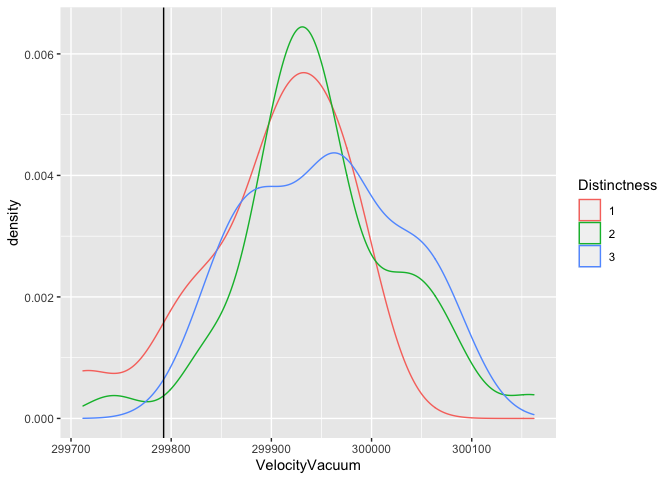
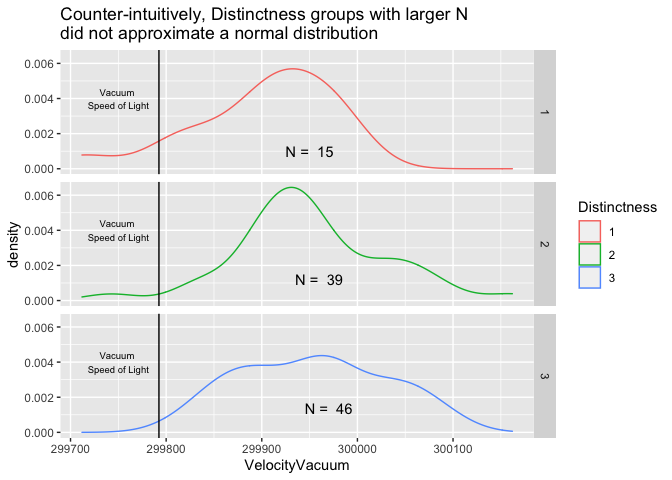
Commit for plot1

diff --git a/challenges/c02-michelson-assignment.md b/challenges/c02-michelson-assignment.md
@@ -7,6 +7,10 @@ ingridmathilde
       - [Individual](#individual)
       - [Team](#team)
       - [Due Date](#due-date)
+  - [Question 1](#question-1)
+  - [Question 2](#question-2)
+  - [Question 3](#question-3)
+  - [Question 4](#question-4)
       - [Bibliography](#bibliography)
 
 *Purpose*: When studying physical problems, there is an important
@@ -119,6 +123,8 @@ df_michelson %>% glimpse
   - `Temp`: Ambient temperature (Fahrenheit)
   - `Velocity`: Measured speed of light (km / s)
 
+# Question 1
+
 **q1** Re-create the following table (from Michelson (1880), pg. 139)
 using `df_michelson` and `dplyr`. Note that your values *will not* match
 those of Michelson *exactly*; why might this be?
@@ -170,6 +176,8 @@ for `VelocityVacuum` (from Michelson (1880), pg. 141). While this isn’t
 fully rigorous (\(+92\) km/s is based on the mean temperature), we’ll
 simply apply this correction to all the observations in the dataset.
 
+# Question 2
+
 **q2** Create a new variable `VelocityVacuum` with the \(+92\) km/s
 adjustment to `Velocity`. Assign this new dataframe to `df_q2`.
 
@@ -217,6 +225,8 @@ uncertainty. We will learn some means of quantifying uncertainty in this
 class, but for many real problems uncertainty includes some amount of
 human judgment.\[2\]
 
+# Question 3
+
 **q3** Compare Michelson’s speed of light estimate against the modern
 speed of light value. Is Michelson’s estimate of the error (his
 uncertainty) greater or less than the true error?
@@ -241,6 +251,8 @@ abs(error)/LIGHTSPEED_PM
 **Michelson’s error is 2.9714118 times his uncertainty. As such his
 nominal estimate and error did not capture the true speed of light.**
 
+# Question 4
+
 **q4** You have access to a few other variables. Construct a few
 visualizations of `VelocityVacuum` against these other factors. Are
 there other patterns in the data that might help explain the difference
@@ -249,12 +261,49 @@ between Michelson’s estimate and `LIGHTSPEED_VACUUM`?
 ``` r
 ## TODO: Compare Michelson's estimate and error against the true value
 ## Your code here!
+
+df_error <- df_q2 %>% 
+  arrange(desc(Distinctness)) %>% 
+  group_by(Distinctness) %>% 
+  summarise(
+    count = n(),
+    avg = mean(VelocityVacuum), 
+    max = max(VelocityVacuum), 
+    min = min(VelocityVacuum)
+    )
+```
+
+    ## `summarise()` ungrouping output (override with `.groups` argument)
+
+``` r
+dat_text <- data.frame(
+  label = paste("N = ",as.character(pull(df_error,2))),
+  Distinctness   = pull(df_error,1),
+  x     = c(299950, 299960, 299970),
+  y     = c(0.001, 0.0012, 0.0014)
+)
+
+
 plot1 <- df_q2 %>% 
   ggplot() +
-  # geom_histogram(aes(Velocity)) +
-  geom_density(aes(VelocityVacuum, color = Distinctness, group = Distinctness))
+  geom_density(
+    aes(VelocityVacuum, 
+        color = Distinctness, 
+        group = Distinctness)
+    ) +
+  facet_grid(Distinctness~.) +
+  annotate("text", 
+           x = 299750, 
+           y = 0.004, 
+           label = c("Vacuum \nSpeed of Light"), 
+           size = 2.5) +
+  geom_vline(xintercept = LIGHTSPEED_VACUUM) +
+  geom_text(
+    data= dat_text,
+    mapping = aes(x = x, y = y, label = label) 
+  )
 
-plot1 + geom_vline(xintercept = LIGHTSPEED_VACUUM)
+plot1 + labs(title = "Counter-intuitively, Distinctness groups with larger N \ndid not approximate a normal distribution")
 ```
 
 ![](c02-michelson-assignment_files/figure-gfm/q4-task-1.png)<!-- -->
@@ -262,11 +311,19 @@ plot1 + geom_vline(xintercept = LIGHTSPEED_VACUUM)
 ``` r
 plot2 <- df_q2 %>% 
   ggplot() +
-  geom_histogram(aes(VelocityVacuum, fill = Distinctness)) +
+  geom_histogram(
+    aes(VelocityVacuum, 
+        fill = Distinctness)
+    ) +
   facet_grid(Distinctness~.) +
   theme(
     legend.position = "NONE",
-  )
+  ) +
+  annotate("text", 
+           x = 299750, 
+           y = 4, label = 
+             c("Vacuun Speed of light->"), 
+           size = 3)
 
 plot2 + geom_vline(xintercept = LIGHTSPEED_VACUUM)
 ```
@@ -278,9 +335,21 @@ plot2 + geom_vline(xintercept = LIGHTSPEED_VACUUM)
 ``` r
 plot3 <- df_q2 %>% 
   ggplot() +
-  geom_density2d(aes(x = Temp, VelocityVacuum, color = Distinctness)) +
+  geom_density2d(
+    aes(x = Temp, 
+        y = Velocity, 
+        color = Distinctness)
+    ) +
   facet_grid(Distinctness~.) +
-  geom_hline(yintercept = LIGHTSPEED_VACUUM)
+  geom_hline(yintercept = LIGHTSPEED_VACUUM) +
+  annotate("text", 
+           x = 65, 
+           y = 299850, 
+           label = c("Vacuum \nSpeed of Light"), 
+           size = 3) +
+theme(
+    legend.position = "NONE",
+  )
 
 plot3
 ```
@@ -300,6 +369,48 @@ plot4
 ```
 
 ![](c02-michelson-assignment_files/figure-gfm/q4-task-4.png)<!-- -->
+
+``` r
+plot5 <- df_error %>% 
+  ggplot() +
+  geom_errorbar(
+    aes(x = Distinctness, 
+        y = avg, 
+        ymin = min, 
+        ymax = max, 
+        color = Distinctness
+        ), 
+    width = 0.2) +
+  geom_hline(yintercept = LIGHTSPEED_VACUUM) +
+  annotate("text", 
+           x = 0.7, 
+           y = 299820, 
+           label = c("Vacuum Speed of Light"), 
+           size = 3) +
+  geom_label(
+    aes(x = Distinctness, 
+        y = 299900, 
+        label = paste("N = ", as.character(count))
+        )
+    ) +
+  theme(
+    legend.position = "NONE"
+    )
+
+plot5
+```
+
+![](c02-michelson-assignment_files/figure-gfm/q4-task-5.png)<!-- -->
+
+``` r
+plot6 <- df_q2 %>% 
+  ggplot()+
+  geom_point(aes(x = Date, y = Temp, color = Distinctness))
+
+plot6
+```
+
+![](c02-michelson-assignment_files/figure-gfm/q4-task-6.png)<!-- -->
 
 ## Bibliography
 
